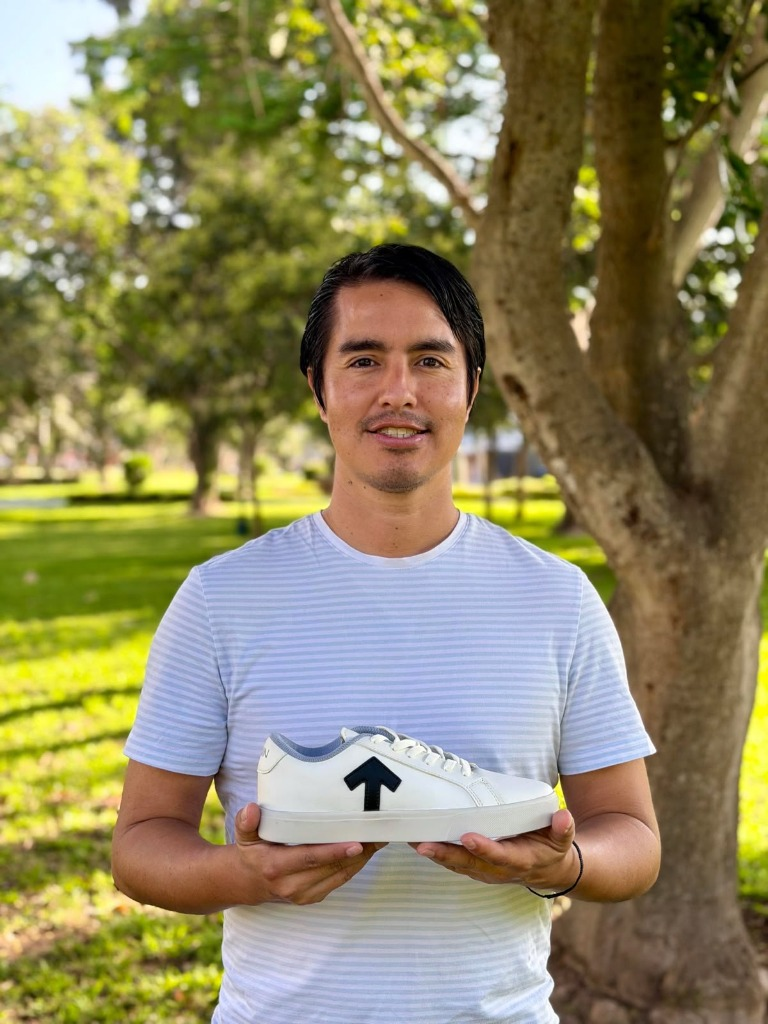
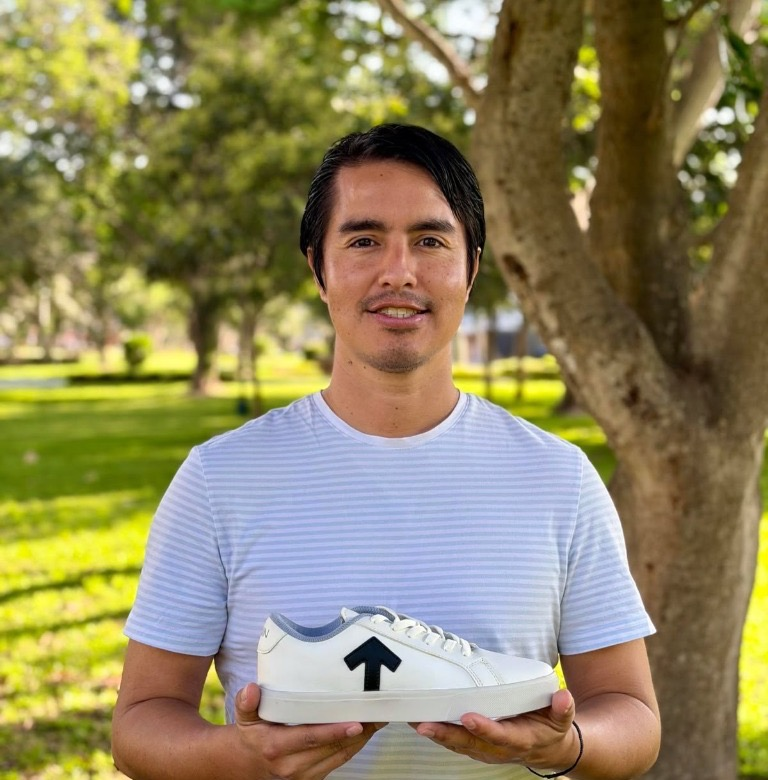
fix: correct Luis Avellán spelling, recrop Andrea and Cristian RONIN photos so shoes and faces are centered without empty space

diff --git a/en.html b/en.html
@@ -868,7 +868,7 @@
             <div class="pt-4 border-t border-slate-800/80">
               <span class="text-[11px] uppercase tracking-wider text-slate-400 font-semibold block mb-1.5">Panelists:</span>
               <div class="text-xs text-slate-200 font-medium leading-relaxed">
-                Luis Avelán (Costa Rica) • Jorge Escalante (El Salvador / Protolab Agency)
+                Luis Avellán (Costa Rica) • Jorge Escalante (El Salvador / Protolab Agency) • Roberto Romero (Venezuela / Multipro Web Studio)
               </div>
             </div>
           </div>
@@ -1120,7 +1120,7 @@
                 <h4 class="text-base sm:text-lg font-bold text-white">Digital Innovation & Future Skills: “Technology Doesn’t Replace Talent. It Empowers It.”</h4>
                 <p class="text-xs text-slate-300 mt-1">
                   Applied digital transformation, practical AI use cases, automation, and emerging skills for the global economy.<br/>
-                  <span class="text-slate-400">Speakers: Luis Avelán (Costa Rica), Jorge Escalante (El Salvador / Protolab Agency), Roberto Romero (Venezuela / Multipro Web Studio).</span>
+                  <span class="text-slate-400">Speakers: Luis Avellán (Costa Rica), Jorge Escalante (El Salvador / Protolab Agency), Roberto Romero (Venezuela / Multipro Web Studio).</span>
                 </p>
               </div>
             </div>
@@ -1528,7 +1528,7 @@
             </div>
           </div>
 
-          <!-- 9. Luis Avelán (Costa Rica) -->
+          <!-- 9. Luis Avellán (Costa Rica) -->
           <div class="speaker-card group relative h-[420px] sm:h-[450px] rounded-3xl overflow-hidden cursor-pointer border border-indigo-500/50 shadow-lg shadow-indigo-500/15 transition-all duration-300 hover:shadow-2xl hover:shadow-indigo-500/30 hover:-translate-y-2 bg-gradient-to-b from-indigo-950/70 via-slate-900 to-black"
                data-category="international all"
                onclick="openSpeakerSideDrawer('luis-avelan')">
@@ -1555,7 +1555,7 @@
             <!-- Bottom Info Overlay -->
             <div class="absolute inset-x-0 bottom-0 p-5 pt-24 z-10 text-left">
               <h4 class="text-xl sm:text-2xl font-black text-white uppercase tracking-tight leading-none group-hover:text-indigo-300 transition-colors drop-shadow-md">
-                LUIS AVELÁN
+                LUIS AVELLÁN
               </h4>
               <p class="text-xs sm:text-sm text-slate-300 font-medium mt-1.5 drop-shadow line-clamp-1">
                 Farmacia Británica • Strategy Lead (Costa Rica)
@@ -3206,7 +3206,7 @@
         ]
       },
       "luis-avelan": {
-        name: "Luis Avelán",
+        name: "Luis Avellán",
         role: "Strategy & Operations Lead",
         companyTag: "Strategy Lead • Farmacia Británica (Costa Rica)",
         country: "Costa Rica",
@@ -3223,7 +3223,7 @@
           description: "Applied digital transformation in traditional enterprises, supply chain modernizations, and operational productivity."
         },
         bio: [
-          "Luis Avelán is an operational strategist at Farmacia Británica and a YLAI Fellow from Costa Rica.",
+          "Luis Avellán is an operational strategist at Farmacia Británica and a YLAI Fellow from Costa Rica.",
           "An expert in modernizing traditional supply chains, workflow automation, and implementing digital toolsets to boost the competitiveness of established family businesses across Central America."
         ]
       },
@@ -3382,7 +3382,7 @@
                 Cristian Gutiérrez: Founder of RONIN, YLAI Fellow 2016 and Professor at UTEC
               </div>
             </div>
-            <div class="grid grid-cols-3 gap-2 mt-3">
+            <div class="grid grid-cols-2 sm:grid-cols-4 gap-2 mt-3">
               <button type="button" onclick="switchDrawerRoninPhoto('assets/speaker-cristian-gutierrez.jpg', 'Cristian Gutiérrez: Founder of RONIN, YLAI Fellow 2016 and Professor at UTEC', this)" class="drawer-thumb-btn p-1.5 rounded-xl border-2 border-amber-400 bg-amber-500/10 flex items-center gap-2 text-left transition-all">
                 <img src="assets/speaker-cristian-gutierrez.jpg" class="w-9 h-9 rounded-lg object-cover object-[53%_20%] shrink-0 border border-white/20" alt="Cristian" />
                 <div class="min-w-0">
@@ -3402,6 +3402,13 @@
                 <div class="min-w-0">
                   <span class="text-[10px] font-bold text-slate-400 block truncate">03 • Forest Urban</span>
                   <span class="text-[10px] text-slate-300 truncate block">Biomaterials</span>
+                </div>
+              </button>
+              <button type="button" onclick="switchDrawerRoninPhoto('assets/ronin-lab.jpg', 'RONIN Footwear Collection: wild rubber sheets and sustainable shoe models', this)" class="drawer-thumb-btn p-1.5 rounded-xl border border-slate-700 bg-white/[0.02] flex items-center gap-2 text-left hover:border-slate-500 transition-all">
+                <img src="assets/ronin-lab.jpg" class="w-9 h-9 rounded-lg object-cover object-top shrink-0 border border-white/20" alt="Collection" />
+                <div class="min-w-0">
+                  <span class="text-[10px] font-bold text-slate-400 block truncate">04 • Collection</span>
+                  <span class="text-[10px] text-slate-300 truncate block">RONIN Lineup</span>
                 </div>
               </button>
             </div>

diff --git a/index.html b/index.html
@@ -868,7 +868,7 @@
             <div class="pt-4 border-t border-slate-800/80">
               <span class="text-[11px] uppercase tracking-wider text-slate-400 font-semibold block mb-1.5">Panelistas:</span>
               <div class="text-xs text-slate-200 font-medium leading-relaxed">
-                Luis Avelán (Costa Rica) • Jorge Escalante (El Salvador / Protolab Agency)
+                Luis Avellán (Costa Rica) • Jorge Escalante (El Salvador / Protolab Agency) • Roberto Romero (Venezuela / Multipro Web Studio)
               </div>
             </div>
           </div>
@@ -1120,7 +1120,7 @@
                 <h4 class="text-base sm:text-lg font-bold text-white">Innovación Digital & Habilidades del Futuro: “La tecnología no reemplaza al talento. Lo potencia.”</h4>
                 <p class="text-xs text-slate-300 mt-1">
                   Transformación digital aplicada al trabajo y emprendimiento, inteligencia artificial, automatización y nuevas habilidades para el mercado global.<br/>
-                  <span class="text-slate-400">Speakers: Luis Avelán (Costa Rica), Jorge Escalante (El Salvador / Protolab Agency), Roberto Romero (Venezuela / Multipro Web Studio).</span>
+                  <span class="text-slate-400">Speakers: Luis Avellán (Costa Rica), Jorge Escalante (El Salvador / Protolab Agency), Roberto Romero (Venezuela / Multipro Web Studio).</span>
                 </p>
               </div>
             </div>
@@ -1528,7 +1528,7 @@
             </div>
           </div>
 
-          <!-- 9. Luis Avelán (Costa Rica) -->
+          <!-- 9. Luis Avellán (Costa Rica) -->
           <div class="speaker-card group relative h-[420px] sm:h-[450px] rounded-3xl overflow-hidden cursor-pointer border border-indigo-500/50 shadow-lg shadow-indigo-500/15 transition-all duration-300 hover:shadow-2xl hover:shadow-indigo-500/30 hover:-translate-y-2 bg-gradient-to-b from-indigo-950/70 via-slate-900 to-black"
                data-category="international all"
                onclick="openSpeakerSideDrawer('luis-avelan')">
@@ -1555,7 +1555,7 @@
             <!-- Bottom Info Overlay -->
             <div class="absolute inset-x-0 bottom-0 p-5 pt-24 z-10 text-left">
               <h4 class="text-xl sm:text-2xl font-black text-white uppercase tracking-tight leading-none group-hover:text-indigo-300 transition-colors drop-shadow-md">
-                LUIS AVELÁN
+                LUIS AVELLÁN
               </h4>
               <p class="text-xs sm:text-sm text-slate-300 font-medium mt-1.5 drop-shadow line-clamp-1">
                 Farmacia Británica (Costa Rica)
@@ -3205,7 +3205,7 @@
         ]
       },
       "luis-avelan": {
-        name: "Luis Avelán",
+        name: "Luis Avellán",
         role: "Líder de Operaciones & Estrategia",
         companyTag: "Líder de Estrategia • Farmacia Británica",
         country: "Costa Rica",
@@ -3222,7 +3222,7 @@
           description: "Transformación digital aplicada al trabajo y empresas tradicionales, automatización y productividad operativa."
         },
         bio: [
-          "Luis Avelán es líder en Farmacia Británica y becario YLAI de Costa Rica.",
+          "Luis Avellán es líder en Farmacia Británica y becario YLAI de Costa Rica.",
           "Experto en la modernización de cadenas de suministro tradicionales, automatización operativa y adopción de herramientas tecnológicas para dinamizar la competitividad de empresas familiares en América Latina."
         ]
       },
@@ -3381,7 +3381,7 @@
                 Cristian Gutiérrez: Fundador de RONIN, YLAI Fellow 2016 y profesor en UTEC
               </div>
             </div>
-            <div class="grid grid-cols-3 gap-2 mt-3">
+            <div class="grid grid-cols-2 sm:grid-cols-4 gap-2 mt-3">
               <button type="button" onclick="switchDrawerRoninPhoto('assets/speaker-cristian-gutierrez.jpg', 'Cristian Gutiérrez: Fundador de RONIN, YLAI Fellow 2016 y profesor en UTEC', this)" class="drawer-thumb-btn p-1.5 rounded-xl border-2 border-amber-400 bg-amber-500/10 flex items-center gap-2 text-left transition-all">
                 <img src="assets/speaker-cristian-gutierrez.jpg" class="w-9 h-9 rounded-lg object-cover object-[53%_20%] shrink-0 border border-white/20" alt="Cristian" />
                 <div class="min-w-0">
@@ -3401,6 +3401,13 @@
                 <div class="min-w-0">
                   <span class="text-[10px] font-bold text-slate-400 block truncate">03 • Forest</span>
                   <span class="text-[10px] text-slate-300 truncate block">Biomateriales</span>
+                </div>
+              </button>
+              <button type="button" onclick="switchDrawerRoninPhoto('assets/ronin-lab.jpg', 'Colección RONIN: calzado sostenible y láminas de caucho silvestre amazónico', this)" class="drawer-thumb-btn p-1.5 rounded-xl border border-slate-700 bg-white/[0.02] flex items-center gap-2 text-left hover:border-slate-500 transition-all">
+                <img src="assets/ronin-lab.jpg" class="w-9 h-9 rounded-lg object-cover object-top shrink-0 border border-white/20" alt="Colección" />
+                <div class="min-w-0">
+                  <span class="text-[10px] font-bold text-slate-400 block truncate">04 • Colección</span>
+                  <span class="text-[10px] text-slate-300 truncate block">Modelos RONIN</span>
                 </div>
               </button>
             </div>
